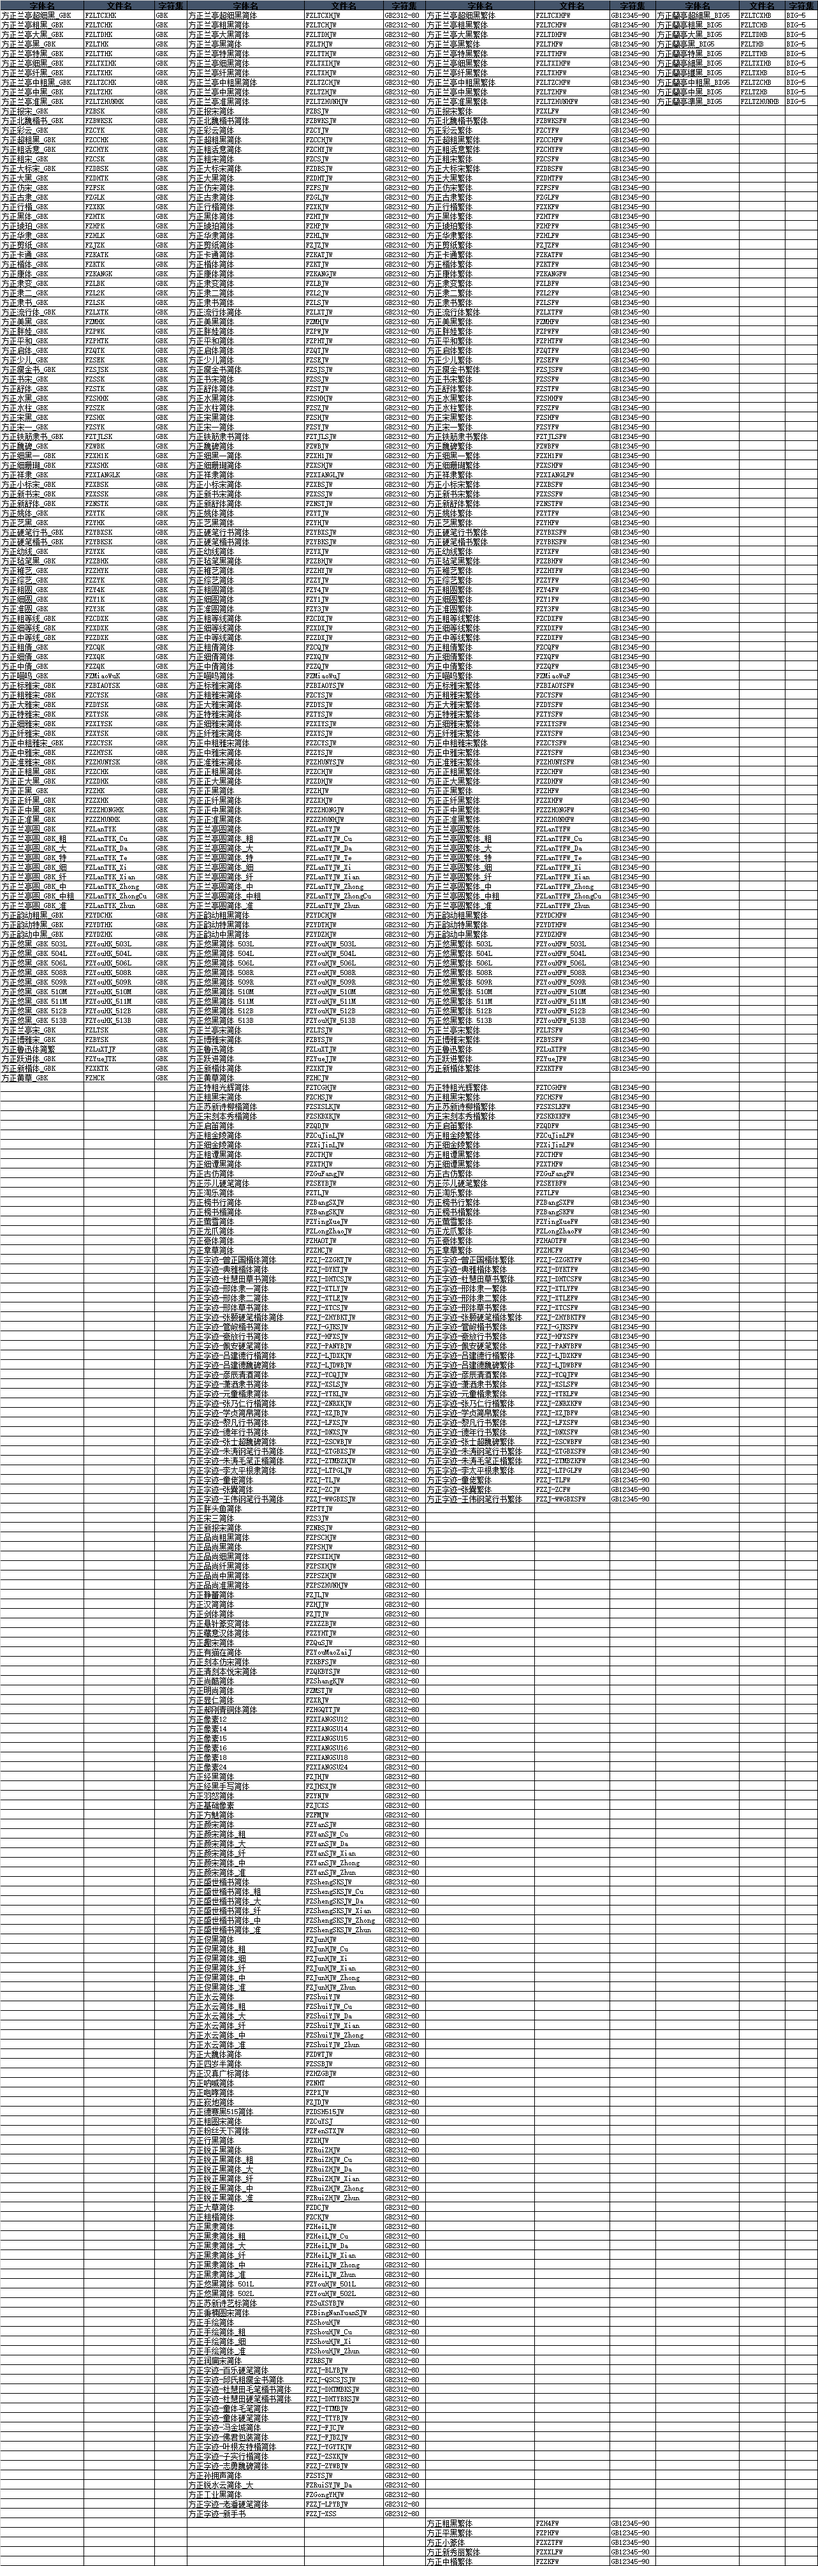
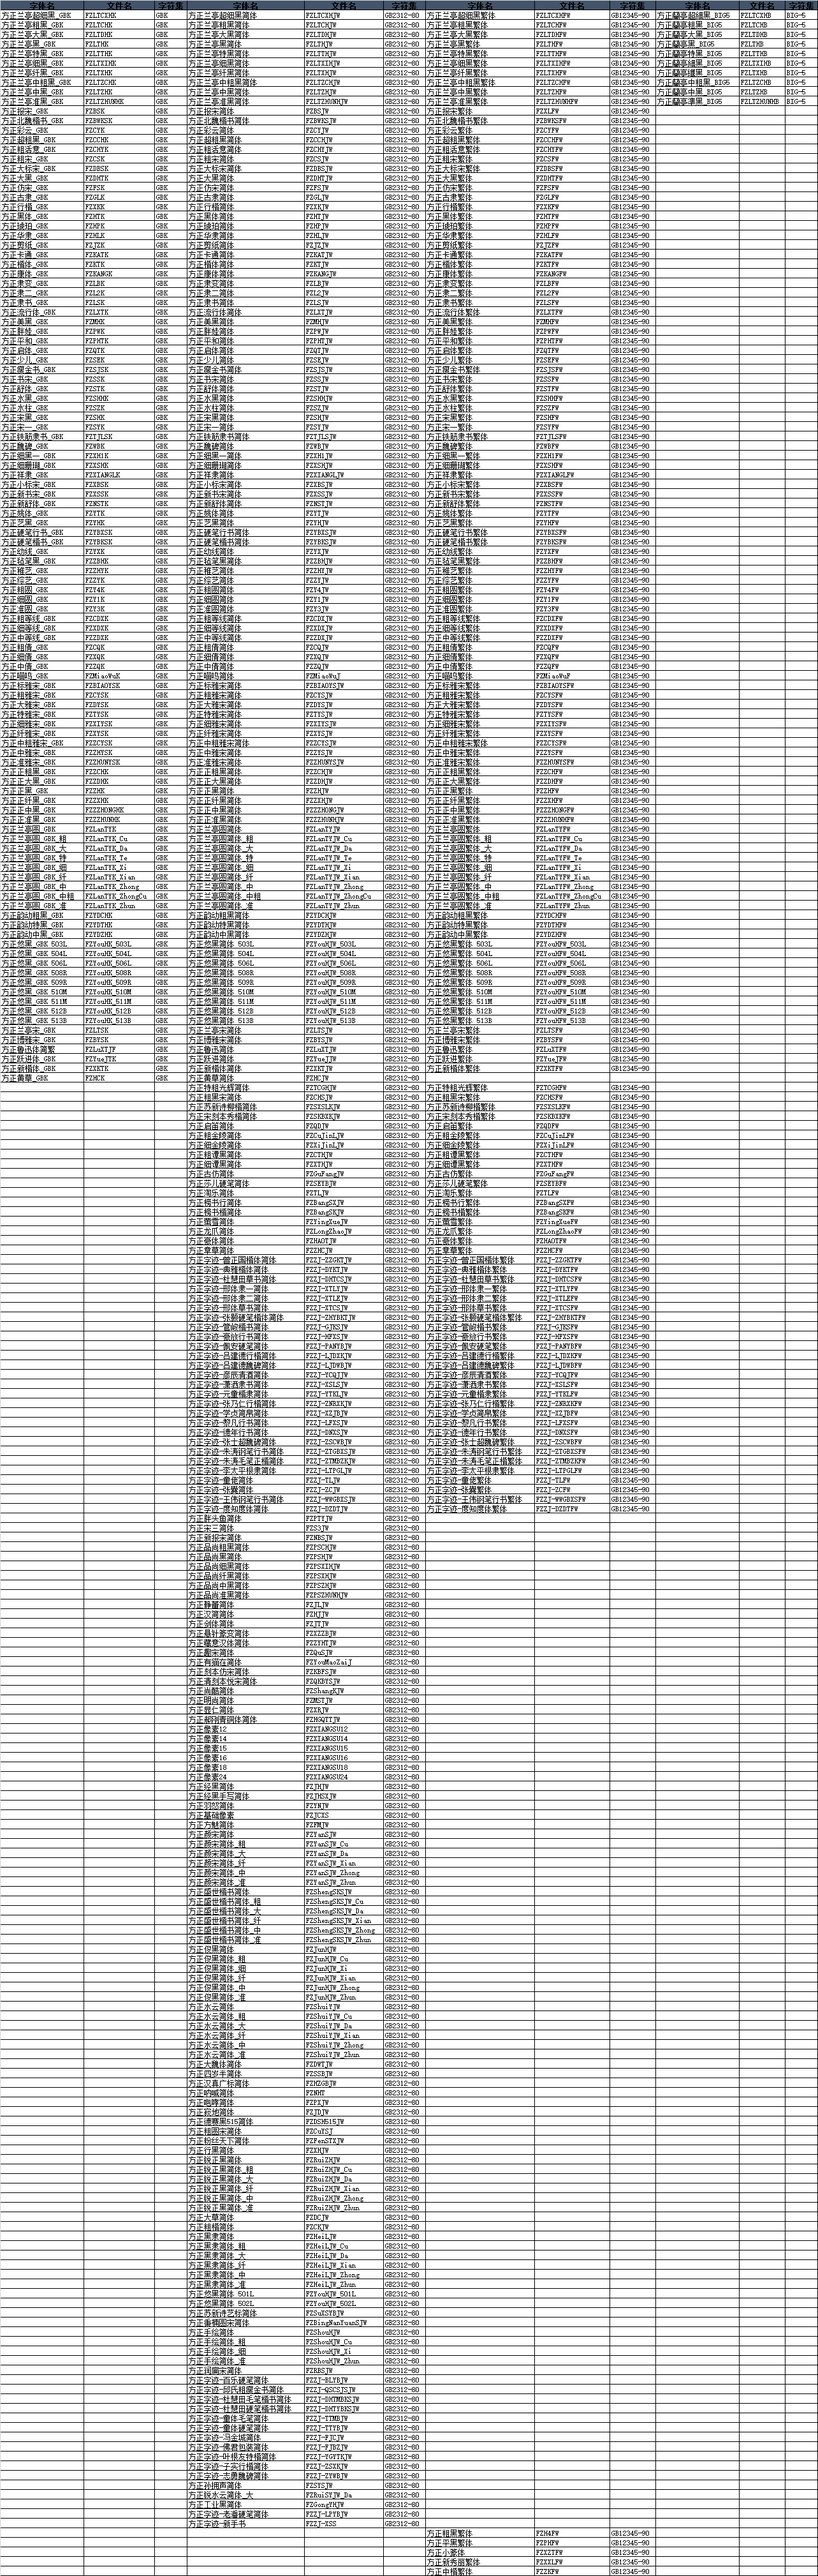
字体上架:方正字迹-度知度体简体/方正字迹-度知度体繁体

Changed region(s): [[0.0, 0.0, 1.0, 0.9948]]

diff --git a/README.md b/README.md
@@ -12,7 +12,7 @@
 
 方正字体样张:[http://shop.foundertype.com/index.php/Index/downSample.html](http://shop.foundertype.com/index.php/Index/downSample.html)
 
-目前官方商城在售字体545种：
+目前官方商城在售字体547种：
 
 | 字体名                      | 文件名             | 字符集     |
 |-----------------------------|--------------------|------------|
@@ -163,6 +163,7 @@
 | 方正字迹-德年行书繁体       | FZZJ-DNXSFW        | GB12345-90 |
 | 方正字迹-典雅楷体繁体       | FZZJ-DYKTFW        | GB12345-90 |
 | 方正字迹-杜慧田草书繁体     | FZZJ-DHTCSFW       | GB12345-90 |
+| 方正字迹-度知度体繁体       | FZZJ-DZDTFW        | GB12345-90 |
 | 方正字迹-管峻楷书繁体       | FZZJ-GJKSFW        | GB12345-90 |
 | 方正字迹-豪放行书繁体       | FZZJ-HFXSFW        | GB12345-90 |
 | 方正字迹-黎凡行书繁体       | FZZJ-LFXSFW        | GB12345-90 |
@@ -415,6 +416,7 @@
 | 方正字迹-杜慧田草书简体     | FZZJ-DHTCSJW       | GB2312-80  |
 | 方正字迹-杜慧田毛笔楷书简体 | FZZJ-DHTMBKSJW     | GB2312-80  |
 | 方正字迹-杜慧田硬笔楷书简体 | FZZJ-DHTYBKSJW     | GB2312-80  |
+| 方正字迹-度知度体简体       | FZZJ-DZDTJW        | GB2312-80  |
 | 方正字迹-冯金城简体         | FZZJ-FJCJW         | GB2312-80  |
 | 方正字迹-佛君包装简体       | FZZJ-FJBZJW        | GB2312-80  |
 | 方正字迹-管峻楷书简体       | FZZJ-GJKSJW        | GB2312-80  |
